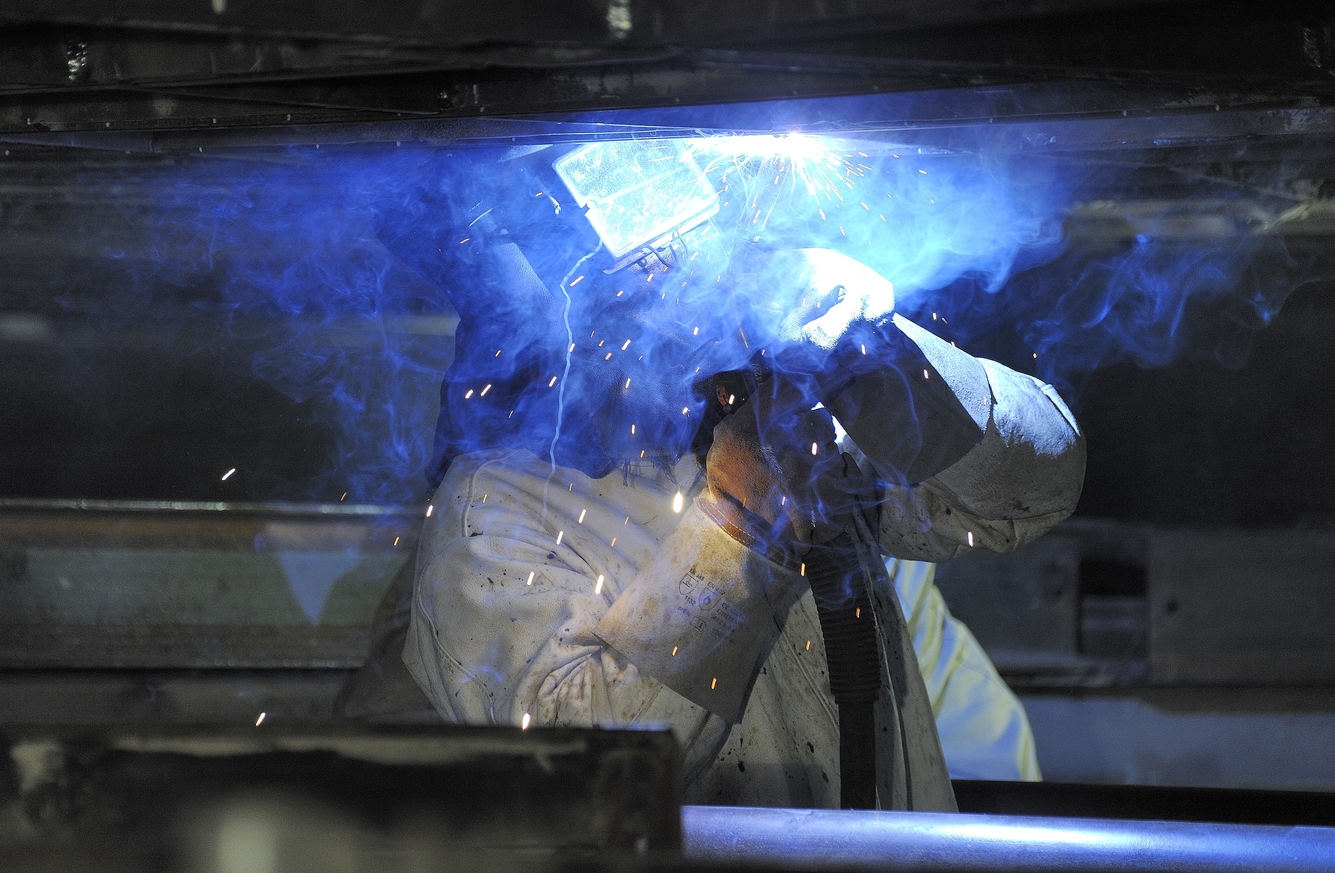
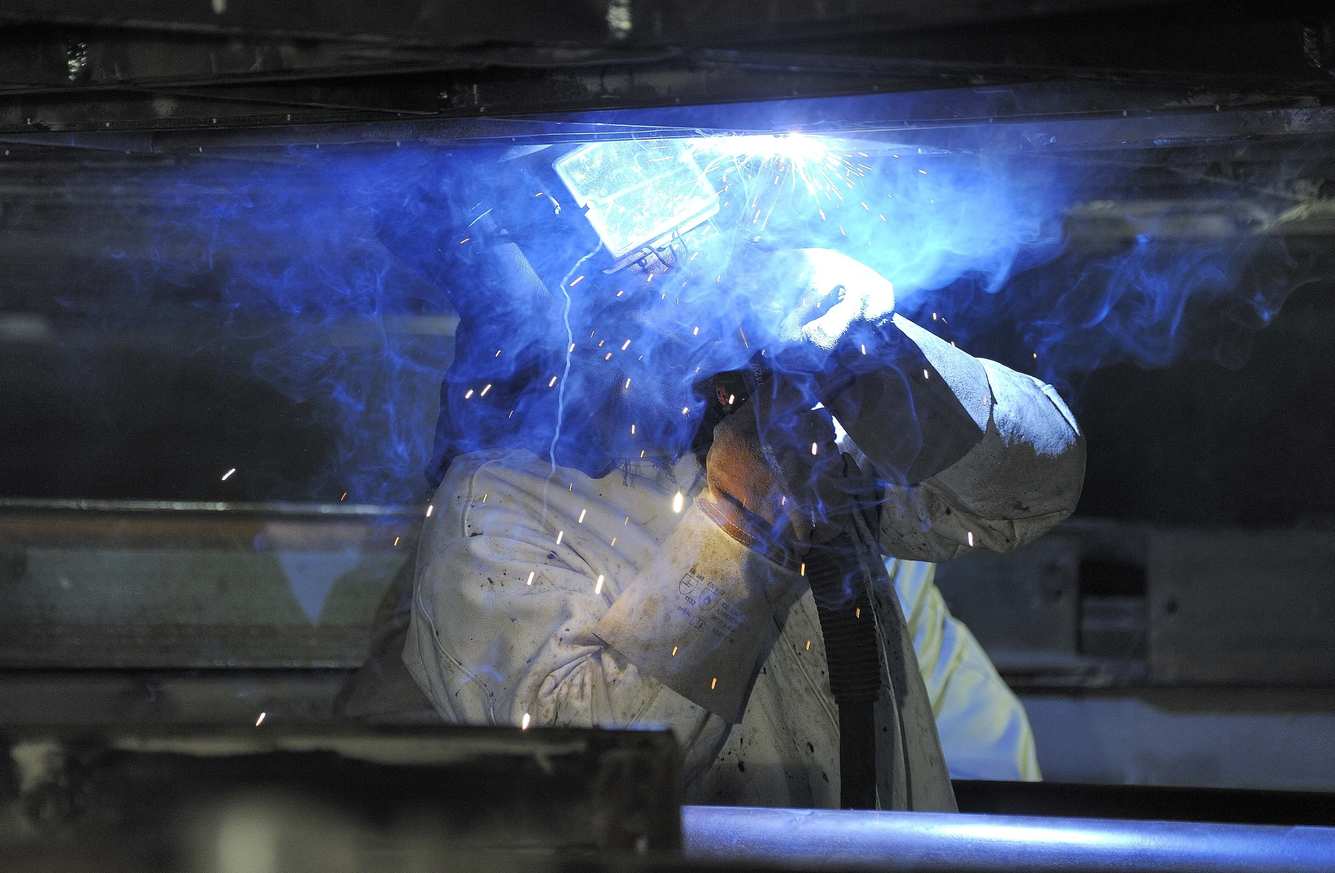
Update 2 on 5 Jan 18
1. Compressed Images
2. Update of Content
3. Update on Footer

Changed region(s): [[0.7167, 0.4364, 0.7479, 0.4675]]

diff --git a/index.html b/index.html
@@ -198,8 +198,7 @@
                        <h2>We exceed expectations</h2>
                     </header>
                     <article>
-                    	<p>Maecenas sed diam eget risus varius blandit sit amet non magna. Morbi leo risus, porta ac consectetur ac, ves<br/>
-                        tibulum at eros. Vestibulum id ligula porta felis euismod semper.</p>
+                    	<p>With our experience in the marine and offshore industry, we can provide the various types of services on a daily basis both on and offshore. Forging bonds , business development and connecting people together are also in our area of expertise.</p>
                     </article>
 
                     
@@ -211,7 +210,7 @@
 
                          <i class="fa fa-bullseye fa-2x" aria-hidden="true"></i>
 
-                            	<h5>Service 1</h5>
+                            	<h5>Electrical & Automation Services</h5>
 
                                 <p>Maecenas sed diam eget risus varius blandit sit amet non magna. Morbi leo orta felis euismod semper.</p>
 
@@ -221,7 +220,7 @@
 
                             	<i class="fa fa-bullseye fa-2x" aria-hidden="true"></i>
 
-                            	<h5>Service 2</h5>
+                            	<h5>Equipment Repair & Servicing</h5>
 
                                 <p>Maecenas sed diam eget risus varius blandit sit amet non magna. Morbi leo orta felis euismod semper.</p>
 
@@ -231,7 +230,7 @@
 
                             	<i class="fa fa-bullseye fa-2x" aria-hidden="true"></i>
 
-                            	<h5>Service 3</h5>
+                            	<h5>Fabrication & Welding Services</h5>
 
                                 <p>Maecenas sed diam eget risus varius blandit sit amet non magna. Morbi leo orta felis euismod semper.</p>
 
@@ -241,7 +240,7 @@
 
                             	<i class="fa fa-bullseye fa-2x" aria-hidden="true"></i>
 
-                            	<h5>Service 4</h5>
+                            	<h5>Consultancy & Business Development</h5>
 
                                 <p>Maecenas sed diam eget risus varius blandit sit amet non magna. Morbi leo orta felis euismod semper.</p>
 
@@ -271,14 +270,13 @@
                 	<header role="title-page">
 
                         <h4>What we have</h4>
-                       <h2>We got the spares</h2>
+                       <h2>We got the spares for Off Shore & On Shore</h2>
 
                     </header>
 
                     <article>
 
-                    	<p>Maecenas sed diam eget risus varius blandit sit amet non magna. Morbi leo risus, porta ac consectetur ac, ves<br/>
-                        tibulum at eros. Vestibulum id ligula porta felis euismod semper.</p>
+                    	<p>We provide solutions to a wide range of spares for various types of equipment including Air Compressors, Steam Generators, Diesel Generators, Engines and more. Speak to us or drop us a line if you would like to enquire on other marine or industrial equipment which are not listed here.  </p>
 
                     </article>
 
@@ -291,7 +289,7 @@
 
                          <i class="fa fa-bullseye fa-2x" aria-hidden="true"></i>
 
-                            	<h5>Service 1</h5>
+                            	<h5>Electrical Spares</h5>
 
                                 <p>Maecenas sed diam eget risus varius blandit sit amet non magna. Morbi leo orta felis euismod semper.</p>
 
@@ -301,7 +299,7 @@
 
                             	<i class="fa fa-bullseye fa-2x" aria-hidden="true"></i>
 
-                            	<h5>Service 2</h5>
+                            	<h5>Mechanical Spares</h5>
 
                                 <p>Maecenas sed diam eget risus varius blandit sit amet non magna. Morbi leo orta felis euismod semper.</p>
 
@@ -311,7 +309,7 @@
 
                             	<i class="fa fa-bullseye fa-2x" aria-hidden="true"></i>
 
-                            	<h5>Service 3</h5>
+                            	<h5>Refractory and Insulation Material</h5>
 
                                 <p>Maecenas sed diam eget risus varius blandit sit amet non magna. Morbi leo orta felis euismod semper.</p>
 
@@ -321,7 +319,7 @@
 
                             	<i class="fa fa-bullseye fa-2x" aria-hidden="true"></i>
 
-                            	<h5>Service 4</h5>
+                            	<h5>Piping Material e.g. Flanges, Elbows, Tee, Etc.</h5>
 
                                 <p>Maecenas sed diam eget risus varius blandit sit amet non magna. Morbi leo orta felis euismod semper.</p>
 
@@ -331,7 +329,7 @@
 
                             	<i class="fa fa-bullseye fa-2x" aria-hidden="true"></i>
 
-                            	<h5>Service 4</h5>
+                            	<h5>Consumables & Hardware</h5>
 
                                 <p>Maecenas sed diam eget risus varius blandit sit amet non magna. Morbi leo orta felis euismod semper.</p>
 
@@ -340,7 +338,7 @@
 
                             	<i class="fa fa-bullseye fa-2x" aria-hidden="true"></i>
 
-                            	<h5>Service 4</h5>
+                            	<h5>Service 6</h5>
 
                                 <p>Maecenas sed diam eget risus varius blandit sit amet non magna. Morbi leo orta felis euismod semper.</p>
 
@@ -389,10 +387,10 @@
 
 <!-- nav -->	
 <nav role="footer-nav">	
-<a href="#">Blue Dove Marine Engineering </a> 
+<a href="http://www.bluedovemarine.com">&copy; 2016 - 2018. Blue Dove Marine Engineering Pte. Ltd. </a> 
 </nav>
 <!-- nav -->
-<p class="copy">&copy; 2017. A <a href="http://www.nubrink.com" class="linkhover">Nubrink Design</a> Experience.™</p>
+<p class="copy">A <a href="http://www.nubrink.com" class="linkhover">Nubrink Design</a> Experience.™</p>
 
 </div>
 </footer>
